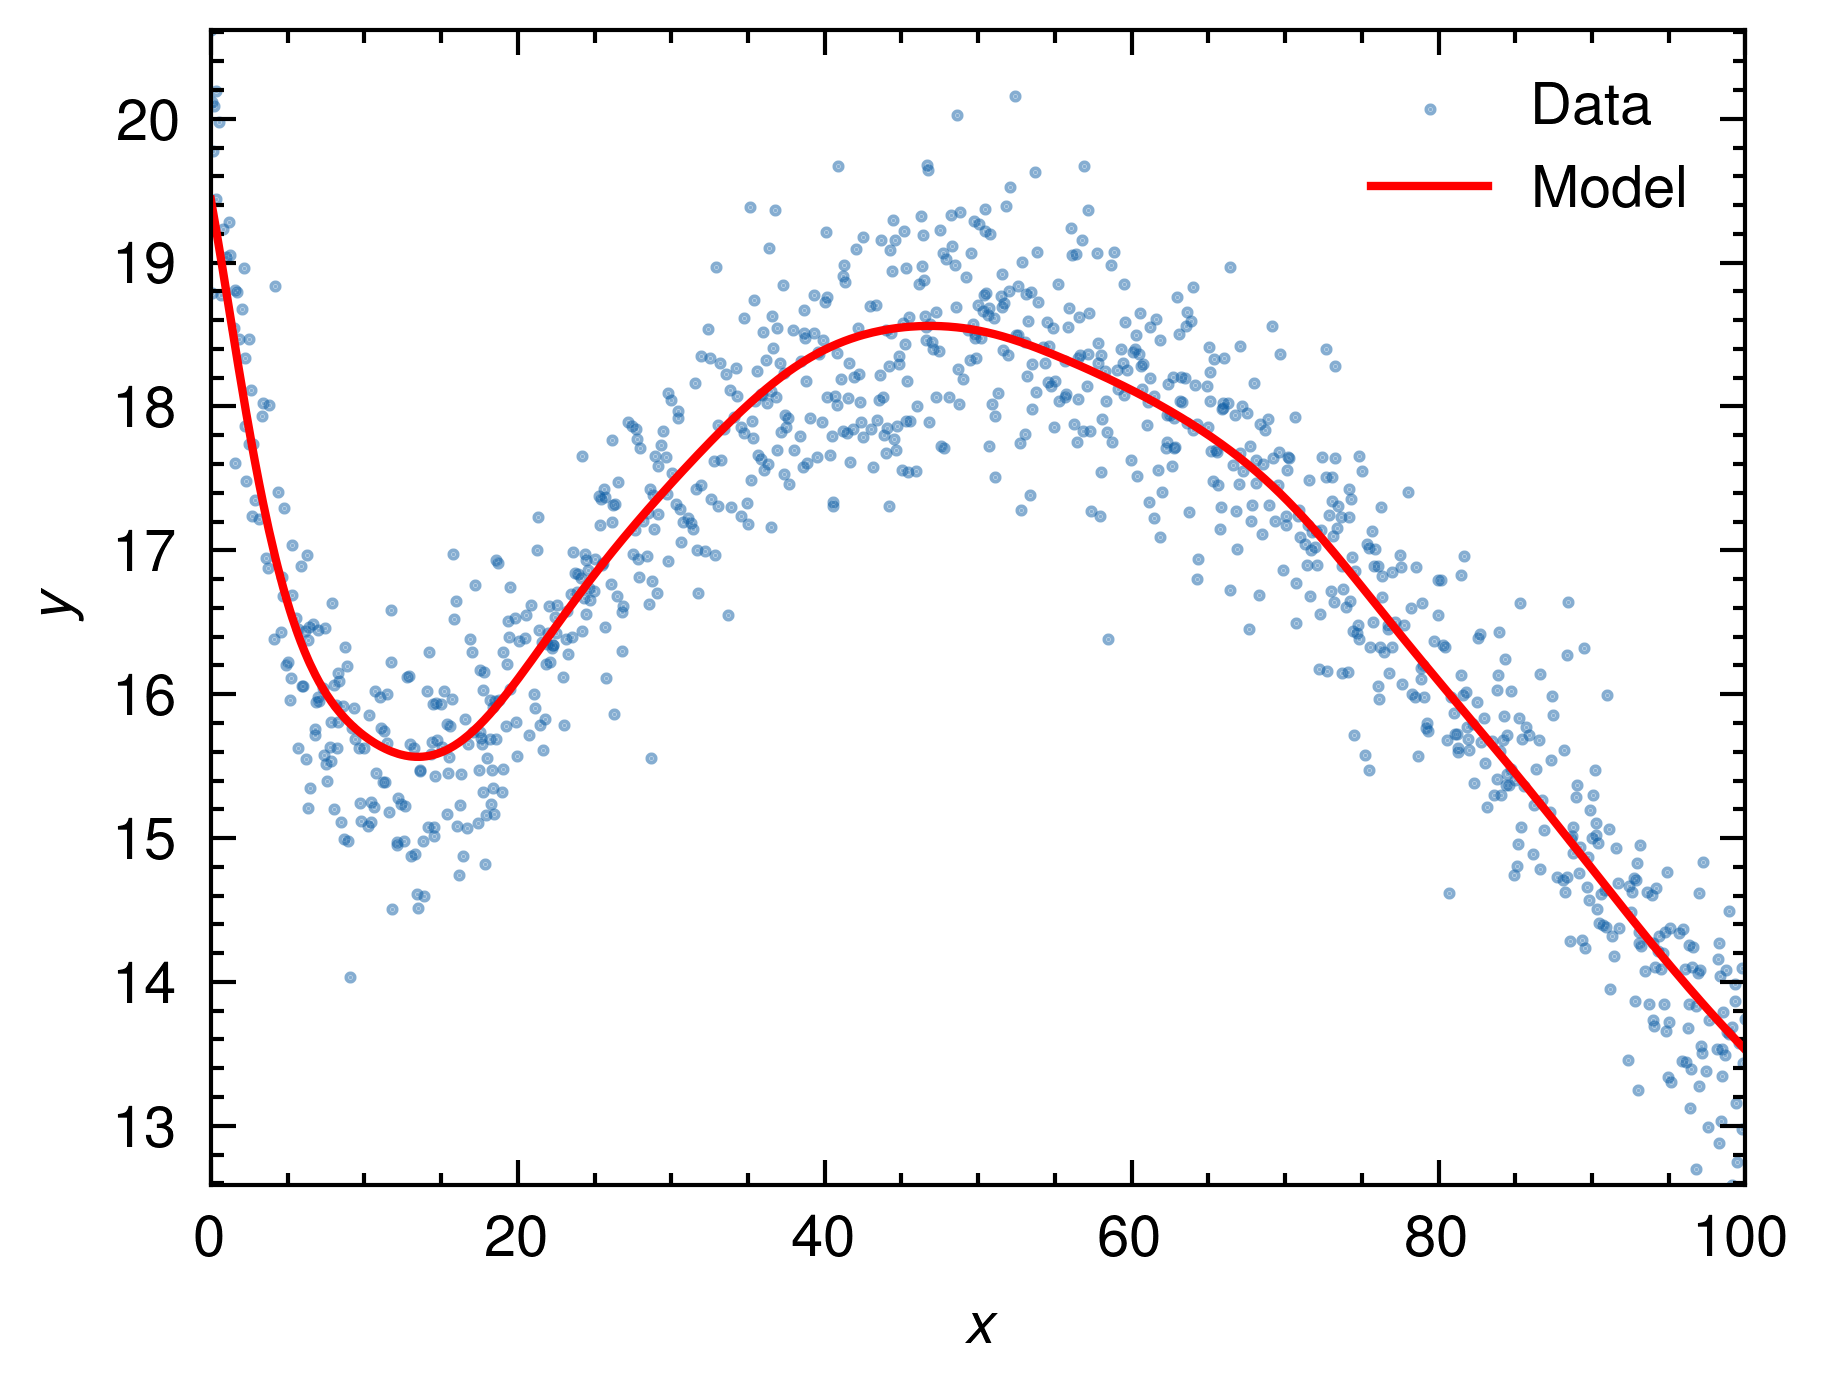
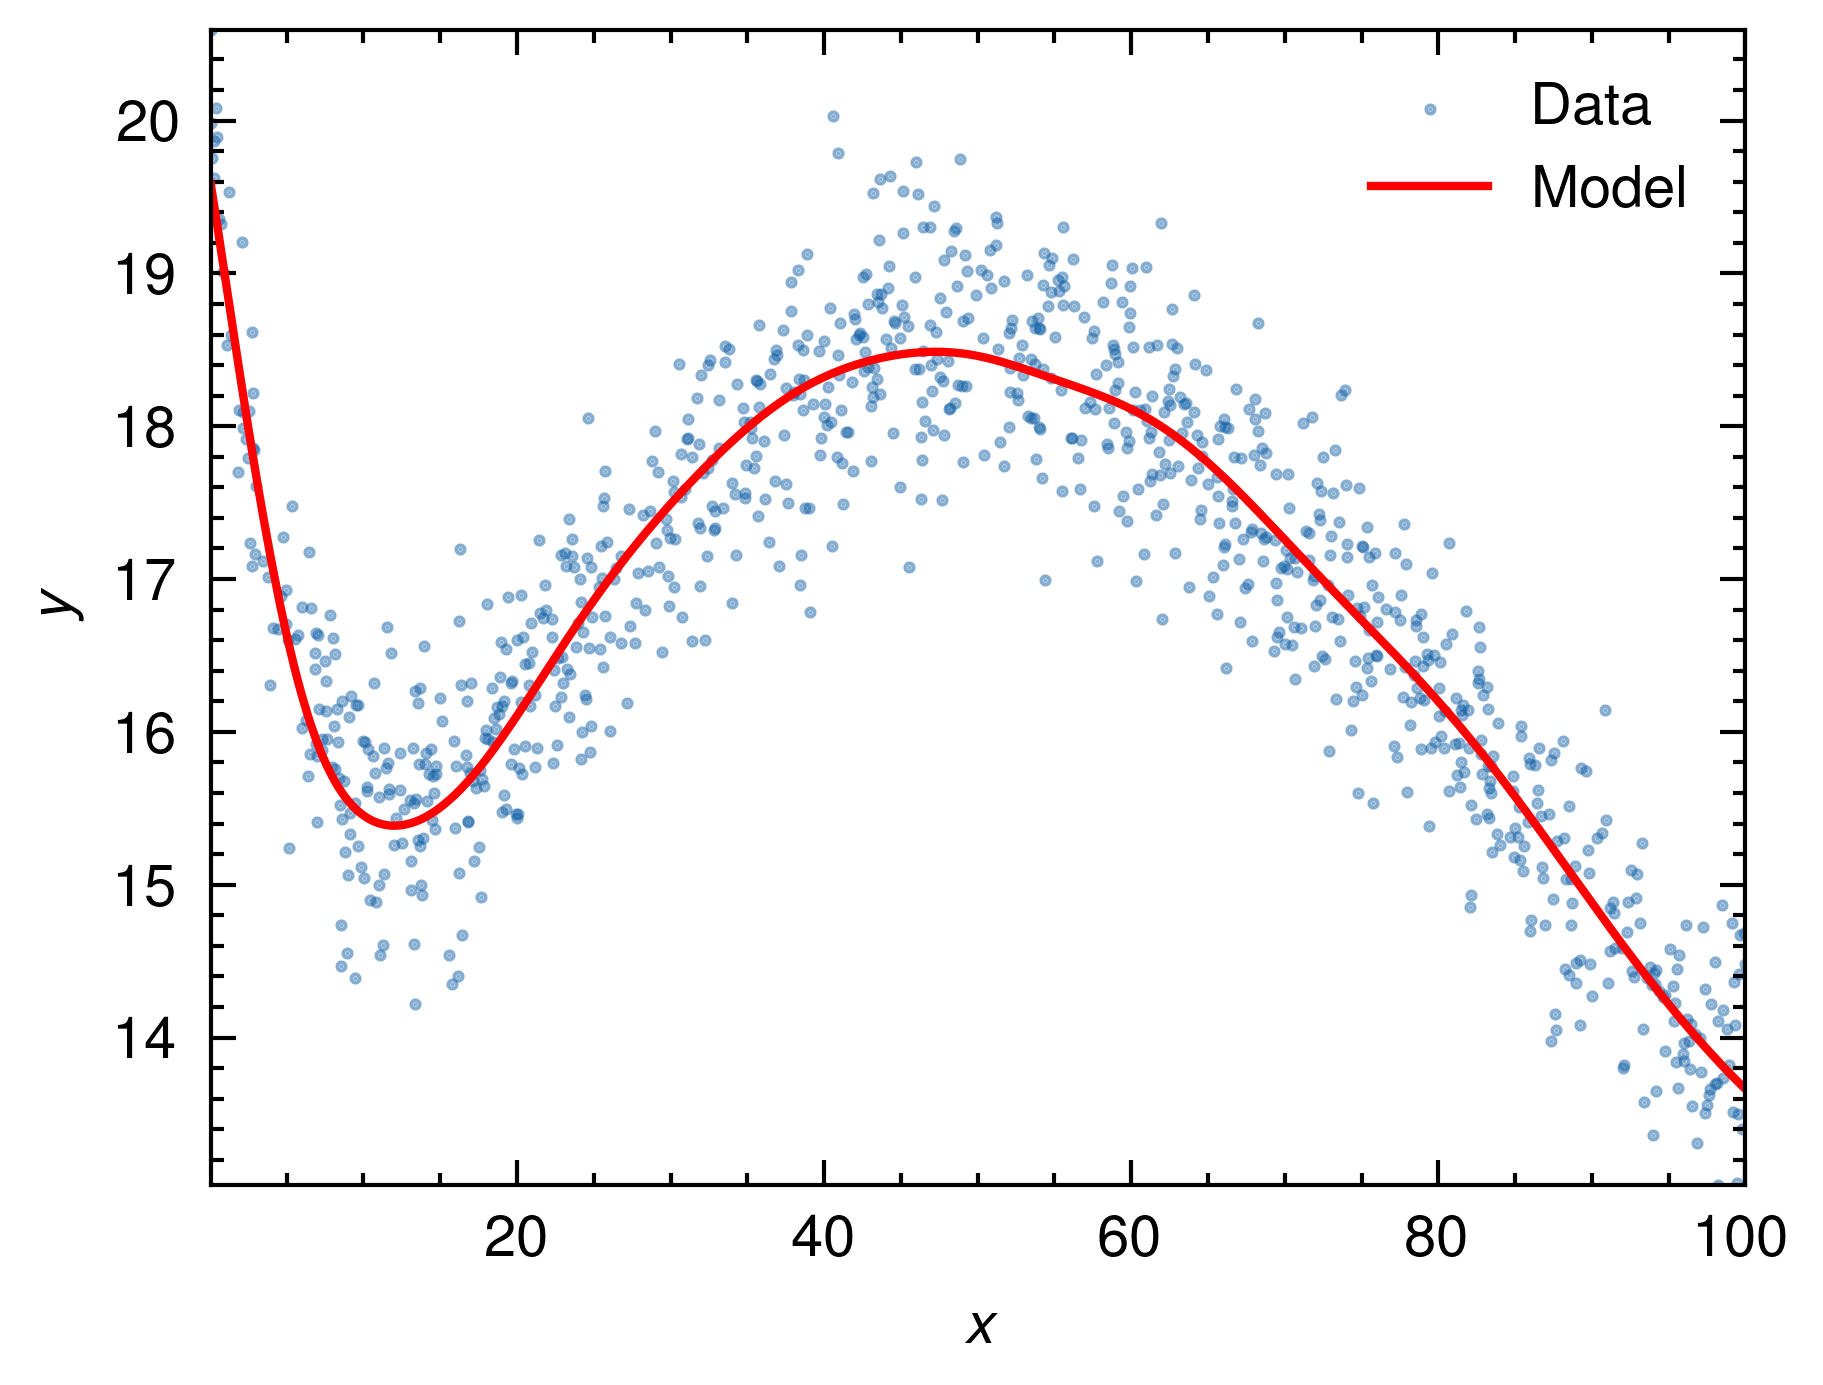
More train data

diff --git a/src/main.rs b/src/main.rs
@@ -10,7 +10,7 @@ const SEED: u64 = 42;
 fn main() -> Result<()> {
     let dev = Device::cuda_if_available(0)?;
 
-    let ds = Dataset::<RobustScaler>::generate(800, 200, 1000, &dev)?;
+    let ds = Dataset::<RobustScaler>::generate(1800, 200, 1000, &dev)?;
 
     let model = train(ds.clone(), &dev)?;
     test(ds.clone(), &model, &dev)?;
